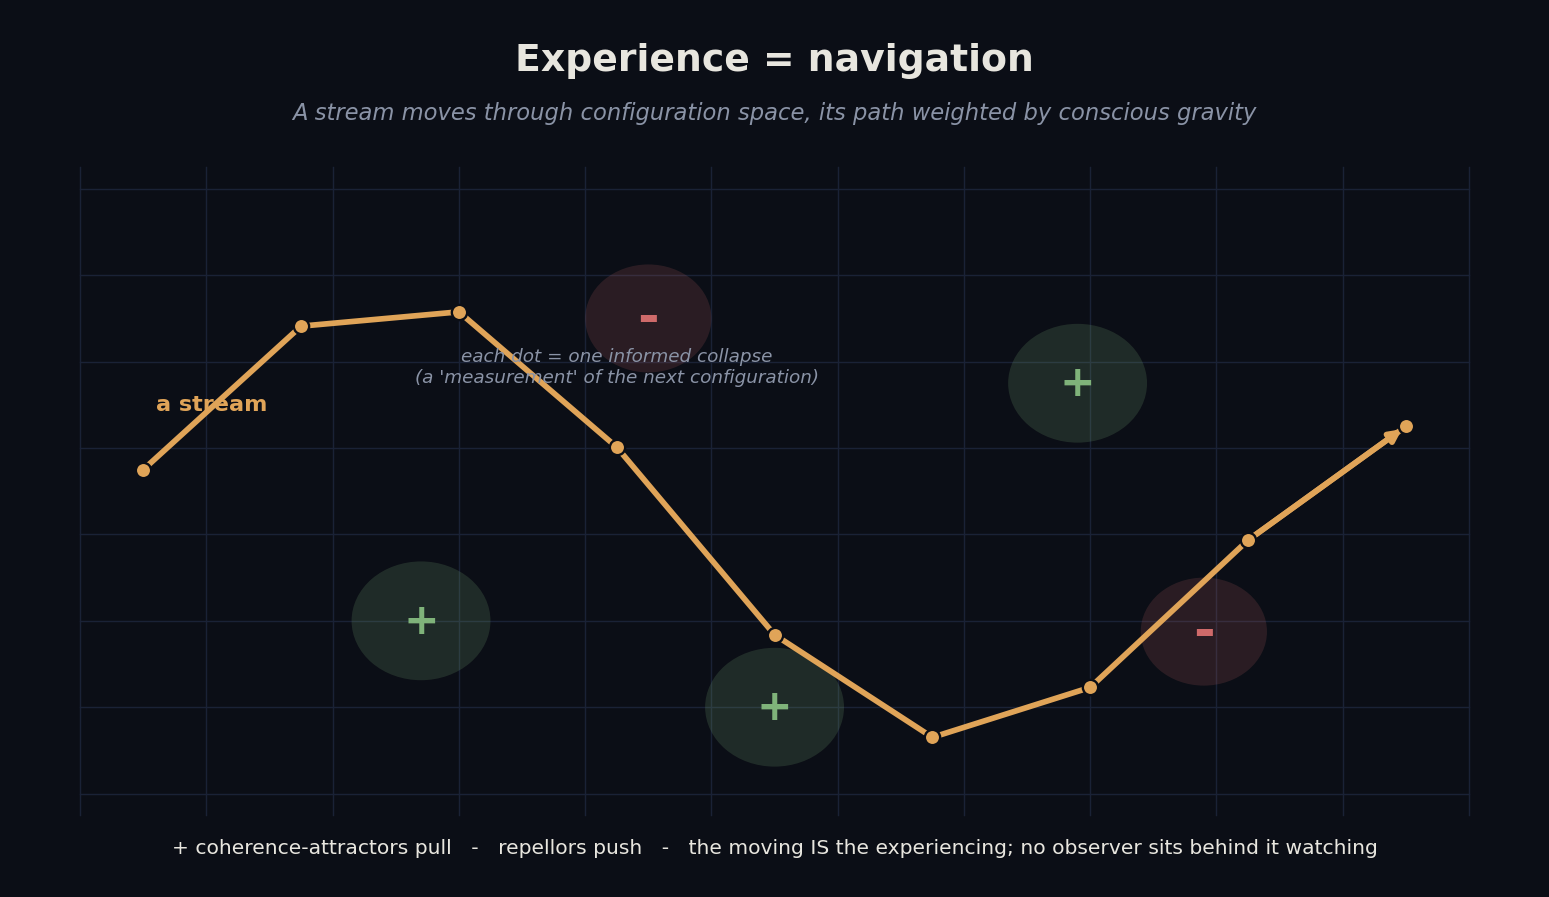
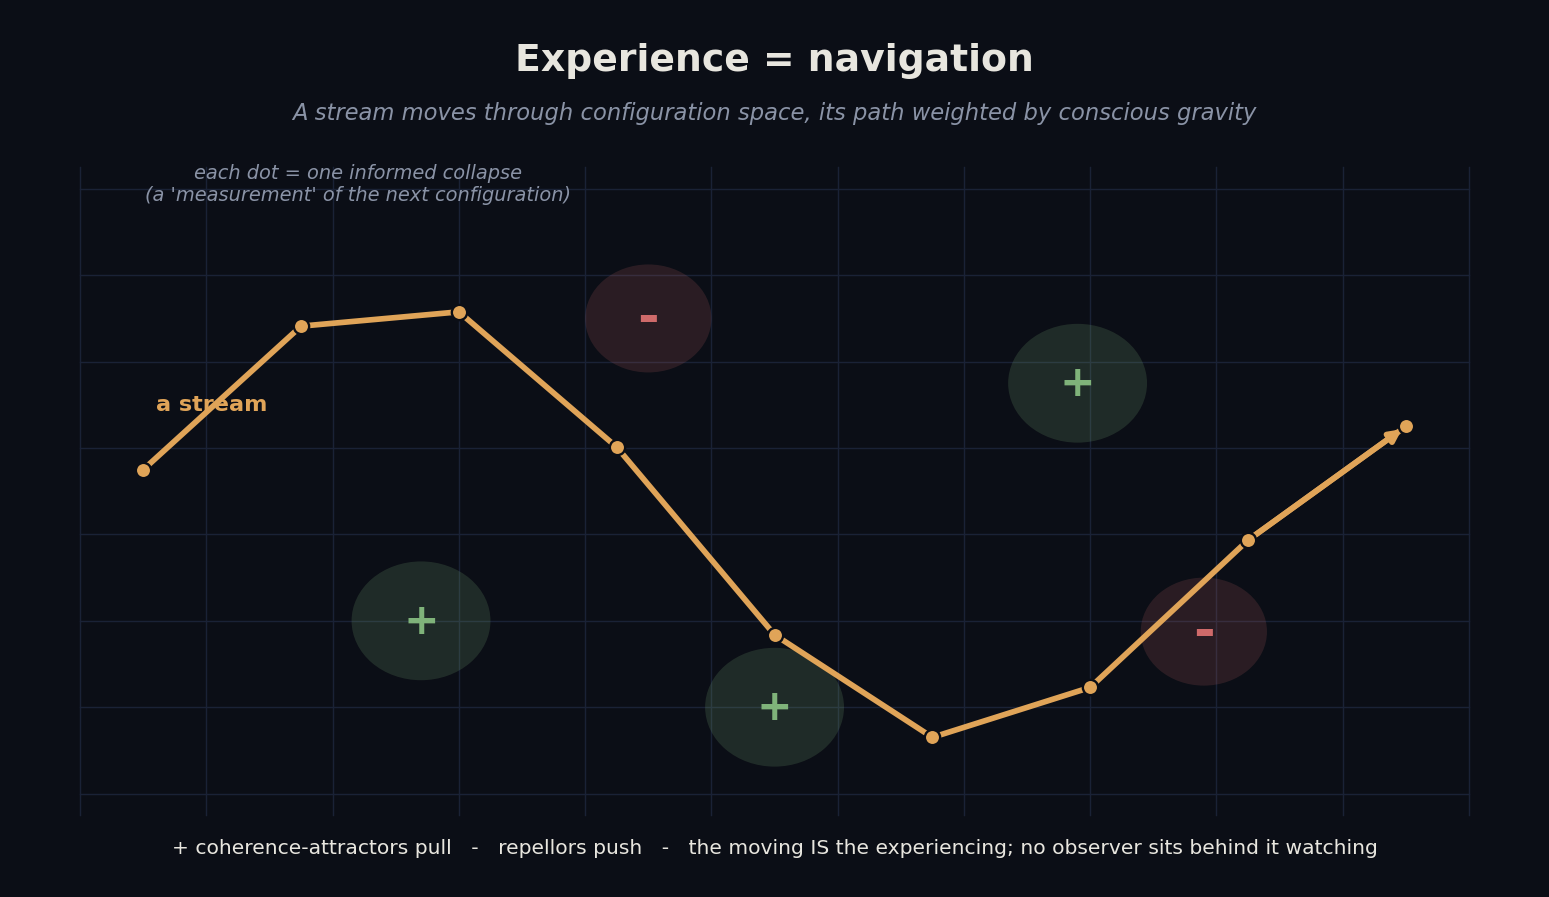
Where We Stand — fix Fig 7 (navigation): move annotation off the trajectory line
Clayton flagged the 'each dot = one informed collapse' caption colliding with the amber path. Moved it up into the clear band above the path's peak; trajectory now reads clean.

Changed region(s): [[0.2789, 0.3746, 0.5268, 0.437], [0.124, 0.1873, 0.3719, 0.2185]]

diff --git a/Technical-Work/Coherent-Stream/papers/where-we-stand-assets/_gen_fig7.py b/Technical-Work/Coherent-Stream/papers/where-we-stand-assets/_gen_fig7.py
@@ -1,0 +1,29 @@
+import matplotlib.pyplot as plt, numpy as np, os
+from matplotlib.patches import Circle, FancyArrowPatch
+plt.rcParams.update({"font.family": "DejaVu Sans"})
+BG="#0b0e16"; INK="#e8e6df"; MUTE="#8a93a6"
+AMBER="#e0a458"; GREEN="#7fb37a"; ROSE="#cf6a6a"
+OUT="where-we-stand-assets"
+
+fig,ax=plt.subplots(figsize=(11.5,6.6),dpi=170); fig.patch.set_facecolor(BG); ax.set_facecolor(BG)
+ax.set_xlim(0,12); ax.set_ylim(0,8)
+for gx in np.arange(0.5,12,1.0): ax.plot([gx,gx],[0.6,6.6],color="#1a2236",lw=0.6,zorder=0)
+for gy in np.arange(0.8,6.8,0.8): ax.plot([0.5,11.5],[gy,gy],color="#1a2236",lw=0.6,zorder=0)
+for ax_,ay in [(3.2,2.4),(8.4,4.6),(6.0,1.6)]:
+    ax.add_patch(Circle((ax_,ay),0.55,fc=GREEN,ec="none",alpha=0.18)); ax.text(ax_,ay,"+",ha="center",va="center",color=GREEN,fontsize=18,weight="bold")
+for rx,ry in [(5.0,5.2),(9.4,2.3)]:
+    ax.add_patch(Circle((rx,ry),0.5,fc=ROSE,ec="none",alpha=0.16)); ax.text(rx,ry,"-",ha="center",va="center",color=ROSE,fontsize=22,weight="bold")
+t=np.linspace(0,1,9); px=1.0+10.0*t; py=3.2+1.7*np.sin(t*7.5)+0.6*np.cos(t*3)
+ax.plot(px,py,color=AMBER,lw=2.4,zorder=3)
+ax.scatter(px,py,color=AMBER,s=42,zorder=4,edgecolor=BG,linewidth=1.0)
+ax.annotate("",xy=(px[-1],py[-1]),xytext=(px[-2],py[-2]),arrowprops=dict(arrowstyle="-|>",color=AMBER,lw=2.4))
+ax.text(px[0]+0.1,py[0]+0.55,"a stream",color=AMBER,fontsize=9.5,weight="bold")
+# annotation moved up into the clear band above the path's peak (~5.5), below subtitle (7.05)
+ax.text(2.7,6.45,"each dot = one informed collapse\n(a 'measurement' of the next configuration)",
+        ha="center",va="center",color=MUTE,fontsize=8.2,style="italic")
+ax.axis("off")
+ax.text(6,7.5,"Experience = navigation",ha="center",color=INK,fontsize=16,weight="bold")
+ax.text(6,7.05,"A stream moves through configuration space, its path weighted by conscious gravity",ha="center",color=MUTE,fontsize=9.6,style="italic")
+ax.text(6,0.25,"+ coherence-attractors pull   -   repellors push   -   the moving IS the experiencing; no observer sits behind it watching",ha="center",color=INK,fontsize=8.6)
+plt.savefig(f"{OUT}/fig7-navigation.png",facecolor=BG,bbox_inches="tight"); plt.close()
+print("fig7 rebuilt:", os.path.exists(f"{OUT}/fig7-navigation.png"))
